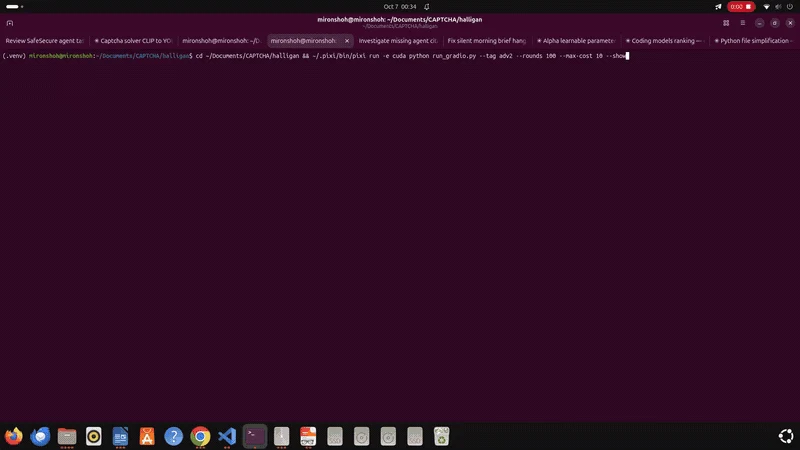
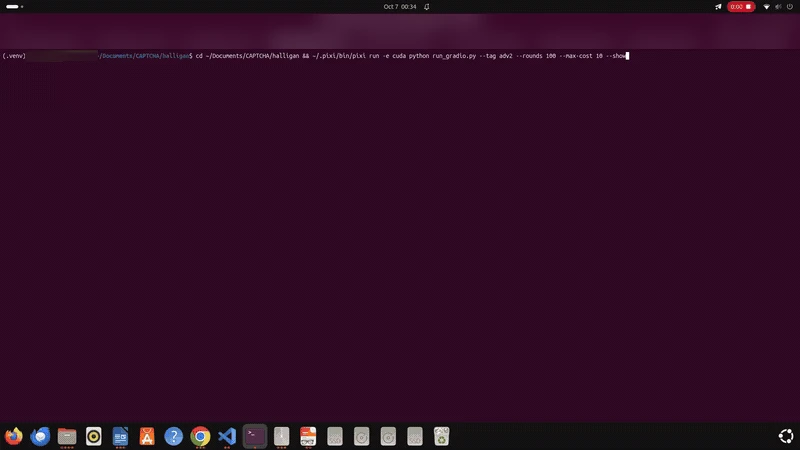
Blur terminal usernames in public demonstration animations

diff --git a/tools/redact_demos.py b/tools/redact_demos.py
@@ -1,0 +1,61 @@
+"""Redact identifying terminal text in the website GIFs and regenerate posters.
+
+Run against the original GIFs. Requires Pillow, NumPy, and SciPy.
+Original MP4s are local source recordings and are not published.
+"""
+from pathlib import Path
+import argparse
+import numpy as np
+from PIL import Image, ImageFilter
+from scipy.signal import fftconvolve
+from scipy.ndimage import maximum_filter
+
+ROOT = Path(__file__).resolve().parents[1]
+parser = argparse.ArgumentParser()
+parser.add_argument('--source-dir', type=Path, required=True, help='Directory containing benign-original.gif and adversarial-original.gif')
+args = parser.parse_args()
+source = Image.open(args.source_dir / 'benign-original.gif').convert('RGB')
+# Username in a traceback, result directory, and shell prompt, respectively.
+boxes = [(48, 263, 79, 270), (185, 143, 216, 150), (29, 53, 60, 60)]
+templates = []
+for box in boxes:
+    a = np.asarray(source.crop(box).convert('L'), dtype=float)
+    a -= a.mean()
+    templates.append(a)
+
+def redact(frame):
+    frame = frame.convert('RGB')
+    gray = np.asarray(frame.convert('L'), dtype=float)
+    regions = []
+    for t in templates:
+        h, w = t.shape
+        ones = np.ones((h, w))
+        sums = fftconvolve(gray, ones, mode='valid')
+        squares = fftconvolve(gray ** 2, ones, mode='valid')
+        denom = np.sqrt(np.maximum(squares - sums ** 2 / t.size, 0) * (t ** 2).sum())
+        scores = fftconvolve(gray, t[::-1, ::-1], mode='valid') / np.maximum(denom, 1e-8)
+        peaks = (scores > .80) & (scores == maximum_filter(scores, size=(5, 21)))
+        for y, x in zip(*np.where(peaks)):
+            if y >= 48 and any(abs(int(x)-column) <= 3 for column in (29, 48, 185)):
+                regions.append((max(0, x-3), max(0, y-2), (98 if abs(int(x)-29) <= 3 else x+w+3), y+h+2))
+    # Window title and terminal tabs contain the account name too.
+    regions.append((0, 14, 800, 49))
+    for box in regions:
+        patch = frame.crop(box)
+        frame.paste(patch.filter(ImageFilter.GaussianBlur(9)), box)
+    return frame, len(regions)-1
+
+if __name__ == '__main__':
+    for name in ['benign', 'adversarial']:
+        path = ROOT / f'assets/{name}-2x.gif'
+        original = Image.open(args.source_dir / f'{name}-original.gif')
+        frames, durations, counts = [], [], []
+        for i in range(original.n_frames):
+            original.seek(i)
+            frame, count = redact(original)
+            frames.append(frame.quantize(palette=Image.open(args.source_dir / f'{name}-original.gif'), dither=Image.Dither.NONE))
+            counts.append(count)
+            durations.append(original.info.get('duration', 100))
+        frames[0].save(ROOT / f'assets/{name}-poster.webp', quality=90)
+        frames[0].save(path, save_all=True, append_images=frames[1:], duration=durations, loop=0, optimize=True, disposal=1)
+        print(name, 'frames:', len(frames), 'redactions:', sum(counts), 'first:', counts[:15])

diff --git a/README.md b/README.md
@@ -24,3 +24,5 @@ The visual structure is inspired by https://crossdomain-ensembles.epfl.ch/; the 
 ## CAPTCHA demonstration GIFs
 
 The benign and adversarial GIFs in `assets/` use the first 60 seconds of the supplied recordings at 2× speed. Each loops over 30 seconds at 800 × 450 pixels and 10 fps. The original MP4 recordings remain local and are excluded from Git. The page includes a stop/play control and starts with still images when reduced motion is preferred.
+
+The public GIFs and still previews have baked-in blurring over terminal account names, matching home-directory usernames, window titles, and tabs. The local source MP4s remain unredacted and excluded from deployment. `tools/redact_demos.py` documents the redaction process; run it only on original GIFs, with Pillow, NumPy, and SciPy installed.
